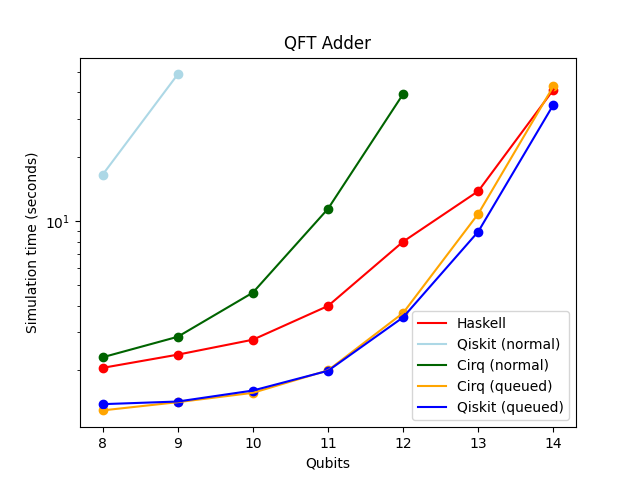
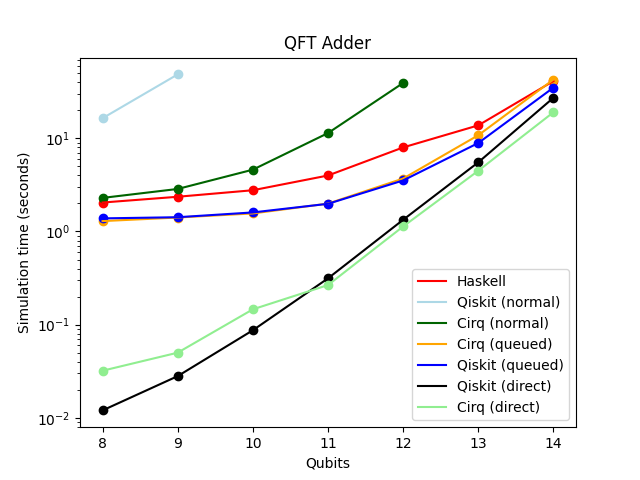
finished updating graphs to include direct

diff --git a/main.tex b/main.tex
@@ -498,7 +498,9 @@ These benchmarks include the quantum Fourier transform (QFT), several different 
 multi-qubit teleportation, an example of a circuit using `repeat-until-success' gates,
 and the MaxCut QAOA algorithm.
 We compare the queued and non-queued (normal) versions of the updated server against the original Haskell-based server.
-To further assess the performance of server-client simulation archeture, we also compile the benchmark circuits to OpenQASM and run them directly on the Cirq and Qiskit simulators using Python.
+To further assess the performance of the server-client simulation architecture,
+we also compile the benchmark circuits which do not include dynamic lifting
+to OpenQASM and run them directly on the Cirq and Qiskit simulators using Python.
 
 \paragraph{Quantum Fourier Transform}
 The results for QFT (Figure \ref{fig:qft}) show that the queued
